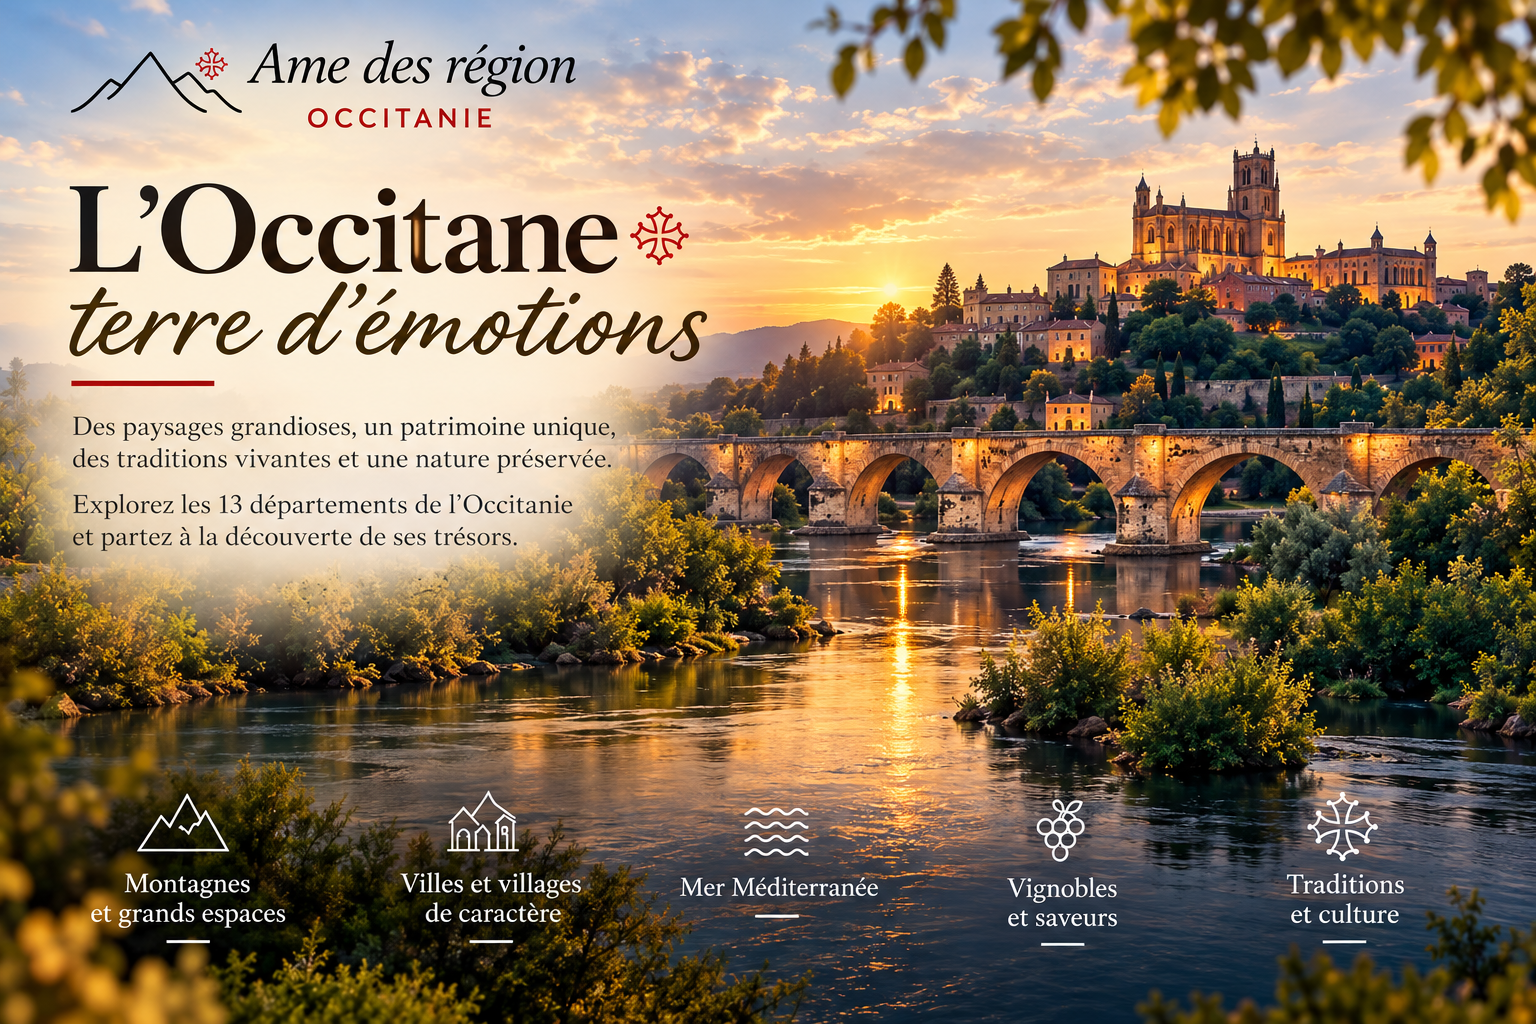
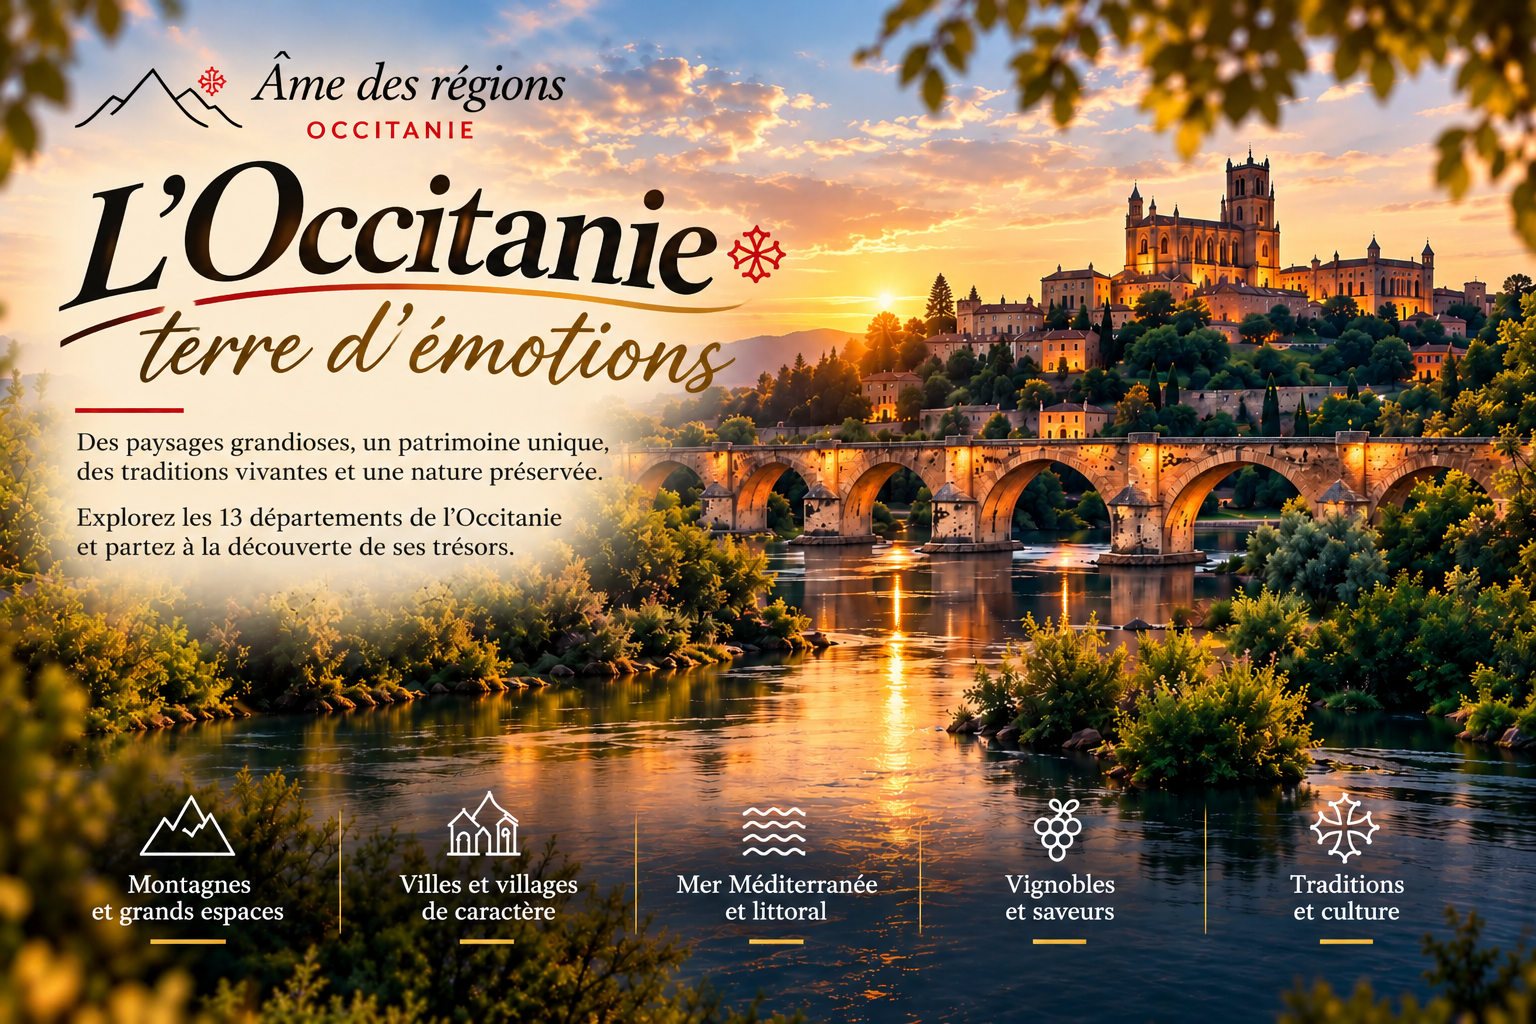
index

diff --git a/index.html b/index.html
@@ -15,65 +15,49 @@
     }
     .accueil img { display: block; width: 100%; height: 100%; object-fit: contain; }
 
-    /* ── Les boutons, à l'emplacement de l'ancien bouton rouge (effacé de l'image) ── */
+    /* ── Le bouton unique, à l'emplacement de l'ancien bouton rouge (effacé de l'image) ── */
     .boutons {
-      position: absolute; left: 4.6%; top: 66.6%;   /* ← position du groupe de boutons */
-      display: flex; gap: 1.1cqw; align-items: flex-start;
+      position: absolute; left: 4.6%; top: 64.5%;   /* ← position du bouton */
     }
     .bouton {
-      display: inline-flex; align-items: center; gap: .7cqw;
-      padding: .75cqw 1.6cqw;                        /* ← taille des boutons */
-      font-family: Georgia, "Times New Roman", serif; font-size: 1.35cqw; letter-spacing: .02em;
-      color: #fff; text-decoration: none; white-space: nowrap; cursor: pointer;
-      background: rgba(12, 20, 30, .45);
-      border: 1px solid rgba(255, 255, 255, .55); border-radius: 999px;
-      /* ← liseré doré discret, légèrement détaché de la bordure */
-      box-shadow: 0 0 0 2px rgba(12, 20, 30, .25), 0 0 0 3px rgba(250, 199, 117, .5);
-      backdrop-filter: blur(3px); -webkit-backdrop-filter: blur(3px);
-      text-shadow: 0 1px 3px rgba(0, 0, 0, .6);
-      transition: background .2s, border-color .2s, color .2s;
+      display: inline-flex; align-items: center; gap: 1cqw;
+      padding: 1.15cqw 2.6cqw;                       /* ← taille du bouton */
+      font-family: Georgia, "Times New Roman", serif; font-size: 1.9cqw; font-weight: bold;
+      letter-spacing: .03em;
+      color: #3a1a08; text-decoration: none; white-space: nowrap; cursor: pointer;
+      /* fond doré chaud, assorti au coucher de soleil */
+      background: linear-gradient(180deg, #FFE0A3 0%, #FAC775 45%, #E9A23B 100%);
+      border: 1px solid rgba(255, 240, 210, .9); border-radius: 999px;
+      /* liseré rouge occitan + halo lumineux */
+      box-shadow:
+        0 0 0 3px rgba(20, 12, 6, .35),
+        0 0 0 5px rgba(179, 18, 42, .85),
+        0 .6cqw 1.8cqw rgba(0, 0, 0, .45),
+        0 0 2.5cqw rgba(250, 199, 117, .55);
+      text-shadow: 0 1px 0 rgba(255, 245, 220, .6);
+      transition: transform .2s, box-shadow .2s, filter .2s;
+      animation: halo 2.8s ease-in-out infinite;
     }
-    .bouton span { transition: transform .2s; }
+    .bouton .fleche { display: inline-block; transition: transform .2s; }
     .bouton:hover {
-      background: rgba(12, 20, 30, .65); border-color: #FAC775; color: #FAC775;
-      box-shadow: 0 0 0 2px rgba(12, 20, 30, .3), 0 0 0 3px rgba(250, 199, 117, .9);
+      transform: translateY(-2px) scale(1.04);
+      filter: brightness(1.06);
+      box-shadow:
+        0 0 0 3px rgba(20, 12, 6, .35),
+        0 0 0 5px rgba(179, 18, 42, 1),
+        0 .9cqw 2.4cqw rgba(0, 0, 0, .5),
+        0 0 3.5cqw rgba(250, 199, 117, .85);
     }
-    .bouton:hover span { transform: translateX(3px); }
-    .bouton:focus-visible { outline: 3px solid #fff; outline-offset: 3px; }
+    .bouton:hover .fleche { transform: translateX(5px); }
+    .bouton:focus-visible { outline: 3px solid #fff; outline-offset: 6px; }
 
-    /* ── Bouton « Visite guidée » et son sous-menu ── */
-    .visite { position: relative; }
-    button.bouton { margin: 0; }
-    .visite > .bouton .fleche { display: inline-block; transition: transform .25s; }
-    .visite > .bouton:hover .fleche { transform: none; }
-
-    .sous-menu {
-      position: absolute; left: 0; top: 100%;
-      padding-top: .7cqw;                 /* zone « pont » : la souris ne perd pas le survol */
-      display: flex; gap: .8cqw;
-      opacity: 0; visibility: hidden; transform: translateY(-4px);
-      transition: opacity .2s, transform .2s, visibility 0s .2s;
+    /* léger halo qui « respire » pour attirer l'œil */
+    @keyframes halo {
+      0%, 100% { filter: drop-shadow(0 0 0 rgba(250, 199, 117, 0)); }
+      50%      { filter: drop-shadow(0 0 1cqw rgba(250, 199, 117, .7)); }
     }
-    .sous-menu .bouton { font-size: 1.2cqw; padding: .6cqw 1.3cqw; }
-
-    /* ouvert : au clic (classe .ouvert), au clavier (focus-within) ou au survol (souris uniquement) */
-    .visite.ouvert .sous-menu,
-    .visite:focus-within .sous-menu {
-      opacity: 1; visibility: visible; transform: none;
-      transition: opacity .2s, transform .2s, visibility 0s;
-    }
-    .visite.ouvert > .bouton,
-    .visite:focus-within > .bouton { border-color: #FAC775; color: #FAC775; }
-    .visite.ouvert > .bouton .fleche,
-    .visite:focus-within > .bouton .fleche { transform: rotate(180deg); }
-
-    @media (hover: hover) {
-      .visite:hover .sous-menu {
-        opacity: 1; visibility: visible; transform: none;
-        transition: opacity .2s, transform .2s, visibility 0s;
-      }
-      .visite:hover > .bouton { border-color: #FAC775; color: #FAC775; }
-      .visite:hover > .bouton .fleche { transform: rotate(180deg); }
+    @media (prefers-reduced-motion: reduce) {
+      .bouton { animation: none; transition: none; }
     }
 
     @media (max-width: 650px) {
@@ -81,53 +65,22 @@
       .accueil { min-height: 100svh; aspect-ratio: auto; }
       .accueil img { width: 100%; height: auto; }
       /* même emplacement, recalculé à partir de la largeur de l'image */
-      .boutons { top: calc(100vw * 1024 / 1536 * .655); gap: 6px; left: 4%; }
-      .bouton { font-size: 9.5px; padding: 4px 9px; gap: 4px; }
-      .sous-menu { padding-top: 5px; gap: 5px; }
-      .sous-menu .bouton { font-size: 9px; padding: 4px 8px; }
+      .boutons { top: calc(100vw * 1024 / 1536 * .635); left: 4%; }
+      .bouton {
+        font-size: 13px; padding: 7px 16px; gap: 6px;
+        box-shadow: 0 0 0 2px rgba(20, 12, 6, .35), 0 0 0 3px rgba(179, 18, 42, .85), 0 3px 10px rgba(0, 0, 0, .45);
+      }
     }
   </style>
 </head>
 <body>
   <main class="accueil">
-    <img src="accueil-occitanie-sans-bouton.png" alt="L'Âme des Régions : L'Occitane, terre d'émotions. Paysages, patrimoine, traditions et découverte des 13 départements d'Occitanie." width="1536" height="1024">
+    <img src="accueil-occitanie-sans-bouton.png" alt="L'Âme des Régions : L'Occitanie, terre d'émotions. Paysages, patrimoine, traditions et découverte des 13 départements d'Occitanie." width="1536" height="1024">
     <nav class="boutons" aria-label="Découvrir l'Occitanie">
-      <a class="bouton" href="regions/occitanie/carte-occitanie.html" title="Découvrir la carte des 13 départements">Carte des départements </a>
-      <a class="bouton" href="regions/occitanie/occitanie-info.html" title="Identité et repères de la région">Identité &amp; repères </a>
- <a class="bouton" href="regions/occitanie/histoires-de-clocher/histoires-de-clocher.html" title="Identité et repères de la région">Histoires de clochers</a>
-
-      <div class="visite">
-        <button class="bouton" type="button" aria-expanded="false" aria-controls="menu-visite" title="Choisir une visite guidée">
-          Circuits découvertes <span class="fleche" aria-hidden="true">▾</span>
-        </button>
-        <div class="sous-menu" id="menu-visite">
-          <!-- ↓ À ADAPTER : nom (et dossier) du fichier des circuits à pied, une fois renommé -->
-          <a class="bouton" href="regions/occitanie/essai-circuit/circuits-a-pied.html" title="Circuits de visite à pied">À pied </a>
-          <a class="bouton" href="regions/occitanie/essai-circuit2/circuits-en-voiture.html" title="Circuits de visite en voiture">En voiture</a>
-        </div>
-      </div>
+      <a class="bouton" href="regions/occitanie/carte-occitanie.html" title="Découvrir la carte des 13 départements">
+        Carte des départements <span class="fleche" aria-hidden="true">→</span>
+      </a>
     </nav>
   </main>
-
-  <script>
-    // Ouverture / fermeture du menu « Visite guidée » au clic (utile sur mobile et tablette)
-    const visite = document.querySelector('.visite');
-    const declencheur = visite.querySelector('button');
-
-    function basculer(ouvrir) {
-      visite.classList.toggle('ouvert', ouvrir);
-      declencheur.setAttribute('aria-expanded', ouvrir);
-    }
-    declencheur.addEventListener('click', (e) => {
-      e.stopPropagation();
-      basculer(!visite.classList.contains('ouvert'));
-    });
-    document.addEventListener('click', (e) => {
-      if (!visite.contains(e.target)) { basculer(false); declencheur.blur(); }
-    });
-    document.addEventListener('keydown', (e) => {
-      if (e.key === 'Escape') { basculer(false); declencheur.blur(); }
-    });
-  </script>
 </body>
 </html>
